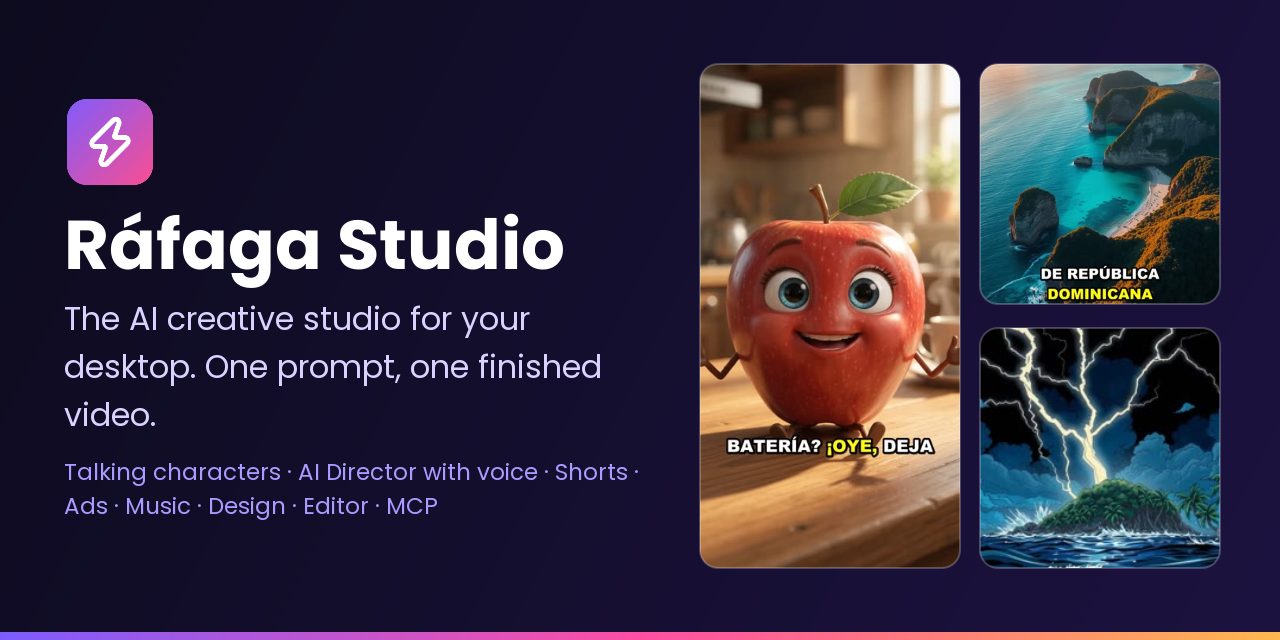
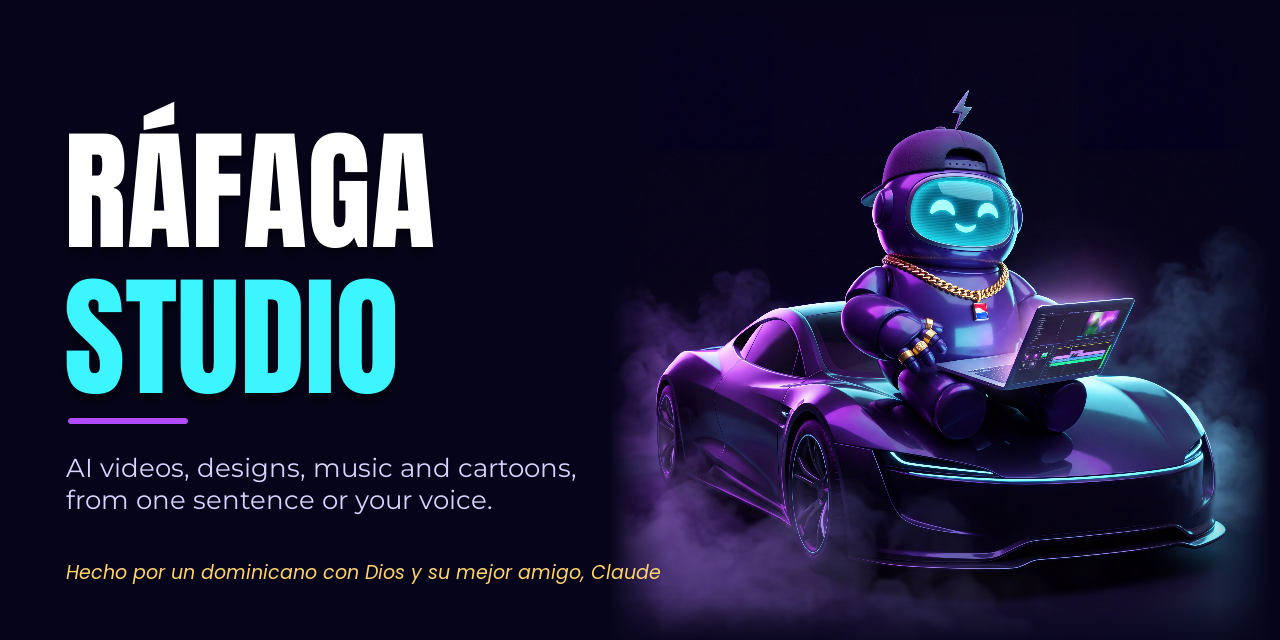
Rafa, la mascota hecha con el diseñador del estudio, y los dibujos con humo se funden con el fondo
- Diseño IA: si el borde de una ilustración no es liso (humo o luces del arte oscuro con neón), se funde poco a poco
  con el fondo del lienzo y no se ve el cuadrado. Con prueba.
- Rafa, la mascota (4K, Gemini Nano Banana 2.1), y una portada nueva para GitHub hechas con el diseñador.
- README: «Meet Rafa» / «Conoce a Rafa».

diff --git a/motor/diseno_ia.py b/motor/diseno_ia.py
@@ -7,7 +7,7 @@ from fractions import Fraction
 from pathlib import Path
 from typing import Callable
 
-from PySide6.QtGui import QColor, QFont, QImage, QTextDocument, QTextOption
+from PySide6.QtGui import QColor, QFont, QImage, QLinearGradient, QPainter, QTextDocument, QTextOption
 
 from . import diseno, ia, marca, memoria, recursos
 from .idioma import actual, IDIOMAS, t
@@ -307,6 +307,32 @@ def _prompt(prompt: str, estilo: str, ilustra: bool = False, fondo: str = "") ->
     return ", ".join(p for p in partes if p) + _SIN_TEXTO
 
 
+def _borde_liso(imagen: QImage, tolerancia: int = 24) -> bool:
+    """Si todo el borde es del color de la esquina, como pide el prompt (un dibujo con humo o luces no lo cumple)."""
+    w, h, esquina = imagen.width(), imagen.height(), imagen.pixelColor(2, 2)
+    puntos = [(2 + i * (w - 5) // 15, y) for i in range(16) for y in (2, h - 3)]
+    puntos += [(x, 2 + i * (h - 5) // 15) for i in range(16) for x in (2, w - 3)]
+    return all(max(abs(c.red() - esquina.red()), abs(c.green() - esquina.green()),
+                   abs(c.blue() - esquina.blue())) <= tolerancia for c in (imagen.pixelColor(*p) for p in puntos))
+
+
+def _fundir_bordes(imagen: QImage, fraccion: float = 0.08) -> QImage:
+    """El borde se vuelve transparente poco a poco, para que no se vea el cuadrado sobre el fondo liso."""
+    imagen = imagen.convertToFormat(QImage.Format_ARGB32_Premultiplied)
+    w, h = imagen.width(), imagen.height()
+    m = max(1, round(min(w, h) * fraccion))
+    p = QPainter(imagen)
+    p.setCompositionMode(QPainter.CompositionMode_DestinationIn)  # solo multiplica el alfa de la franja que pinta
+    for x0, y0, x1, y1, caja in ((0, 0, m, 0, (0, 0, m, h)), (w, 0, w - m, 0, (w - m, 0, m, h)),
+                                 (0, 0, 0, m, (0, 0, w, m)), (0, h, 0, h - m, (0, h - m, w, m))):
+        degradado = QLinearGradient(x0, y0, x1, y1)
+        degradado.setColorAt(0, QColor(0, 0, 0, 0))
+        degradado.setColorAt(1, QColor(0, 0, 0, 255))
+        p.fillRect(*caja, degradado)
+    p.end()
+    return imagen
+
+
 def _comprobar(tipo: str = "post", estilo: str = "auto") -> None:
     """ValueError claro si el tipo o el estilo no existen (llegan también del Director y del MCP)."""
     if not isinstance(tipo, str) or tipo not in TIPOS:
@@ -574,6 +600,8 @@ def crear(pedido: str, tipo: str = "post", usar_marca: bool = True,
                 dibujo = QImage(str(hecha))
                 if not dibujo.isNull():
                     d["fondo"]["colores"] = [dibujo.pixelColor(2, 2).name()]
+                    if not _borde_liso(dibujo):  # humo o luces hasta el borde: se funde con el fondo
+                        _fundir_bordes(dibujo).save(str(hecha))
         except Exception as error:  # cuota agotada o servicio caído: el diseño sale igual, sin esa foto
             causa = _causa(error)
             if es_fondo:

diff --git a/pruebas/diseno_ia.py b/pruebas/diseno_ia.py
@@ -38,6 +38,11 @@ def imagen(prompt, ancho, alto, destino, calidad="1K"):
         raise RuntimeError("Ninguna opción pudo hacerlo.\nservicio caído")
     foto = QImage(ancho, alto, QImage.Format_RGB32)
     foto.fill(QColor("#00AA00"))
+    if "HUMO" in prompt:  # humo claro que llega al borde de abajo, como en el arte oscuro con neón
+        foto.fill(QColor("#06041A"))
+        for y in range(alto * 3 // 4, alto):
+            for x in range(ancho):
+                foto.setPixelColor(x, y, QColor("#5A4A8C"))
     assert foto.save(str(destino))
     return destino
 
@@ -502,6 +507,18 @@ with tempfile.TemporaryDirectory() as d:
     crear([capa(tipo="imagen", prompt_imagen="skull", x=30, y=30, ancho=40, alto=40)], "ilustracion", False,
           fondo_prompt_imagen="dark brick wall")
     assert len(fotos) == 2 and "isolated" not in fotos[1][0] and fotos[1][0].startswith("skull")
+    # Con el borde liso, el dibujo queda igual; con humo hasta el borde, se funde con el fondo y no se ve el cuadrado
+    r = crear([capa(tipo="imagen", prompt_imagen="skull", x=30, y=30, ancho=40, alto=40)], "ilustracion", False)
+    liso = QImage(str(diseno.ruta_imagen(Path(r["carpeta"]), r["diseno"]["capas"][0]["archivo"])))
+    assert not liso.hasAlphaChannel() and r["diseno"]["fondo"]["colores"] == ["#00AA00"]
+    r = crear([capa(tipo="imagen", prompt_imagen="HUMO robot", x=5, y=5, ancho=90, alto=90)], "ilustracion", False,
+              estilo="neon_oscuro")
+    humo = QImage(str(diseno.ruta_imagen(Path(r["carpeta"]), r["diseno"]["capas"][0]["archivo"])))
+    lado = humo.width()
+    assert r["diseno"]["fondo"]["colores"] == ["#06041A"]
+    assert humo.pixelColor(lado // 2, lado - 1).alpha() < 20 and humo.pixelColor(0, lado // 2).alpha() < 20
+    assert humo.pixelColor(lado // 2, lado * 7 // 8).alpha() == 255  # el dibujo, entero
+    assert humo.pixelColor(lado // 2, lado // 2).name() == "#06041a" and humo.pixelColor(lado // 2, lado // 2).alpha() == 255
     antes = set(diseno.CARPETA.iterdir())
     for estilo in ("VECTOR", "", None, "acuarela", ["vector"]):
         assert "Estilo desconocido" in falla(lambda: diseno_ia.crear("pizza", "post", estilo=estilo))

diff --git a/README.es.md b/README.es.md
@@ -149,7 +149,7 @@ cabina.sesion("beat.mp3", "mi_voz.wav", estilo="Dembow / urbano (seco y al frent
 | `pruebas/__main__.py` y `pruebas/seguridad.py` — pruebas sin internet ni claves (`python -m pruebas`) | **MIT** (abierto) |
 | `ejemplos/` — los videos de ejemplo y cómo se hicieron (`python ejemplos/crear.py`) | **MIT** (abierto) |
 | `assets/iconos` (Lucide) y `assets/fuentes` (Google Fonts), ver `assets/LEEME.md` | ISC (iconos) y OFL (fuentes) |
-| `assets/icono.*` y `assets/portada-github.png` — logo y portada | Marca Ráfaga Studio™, todos los derechos reservados |
+| `assets/icono.*`, `assets/portada-github.png` y `assets/mascota.jpg` — logo, portada y mascota | Marca Ráfaga Studio™, todos los derechos reservados |
 | Las demás pruebas (`pruebas/*.py`), `pruebas/real.py`, `instalador/actualizar_lock.py` e `instalador/` | Parte de la app, todos los derechos reservados |
 | `app.py` y `ui/` — la app de escritorio | Código visible, todos los derechos reservados (Ráfaga Studio Pro): no es open source |
 
@@ -162,6 +162,16 @@ Wan 2.2, FLUX, edge-tts, Lucide, Google Fonts.
 
 **Usa contenido propio o con permiso.** Las redes no pagan por contenido ajeno reutilizado. Marca como «hecho con IA»
 el contenido realista generado o alterado con IA: YouTube, TikTok y Meta lo exigen.
+
+## Conoce a Rafa
+
+<img src="assets/mascota.jpg" width="360" align="right" alt="Rafa, la mascota de Ráfaga Studio">
+
+Rafa es la mascota del estudio y se hizo **con el diseñador de Ráfaga Studio**: Claude escribió el diseño como Director y el estudio lo dibujó en 4K.
+
+Hecho por un dominicano con Dios y su mejor amigo, Claude. Si te ayuda a crear, una ⭐ lo ayuda a llegar a más creadores.
+
+<br clear="right">
 
 ## Legal y marca
 

diff --git a/README.md b/README.md
@@ -164,6 +164,16 @@ issue? See [SECURITY.md](SECURITY.md).
 - [ ] macOS and Linux builds
 - [ ] Plugin system for new providers and effects
 
+## 💜 Meet Rafa
+
+<img src="assets/mascota.jpg" width="360" align="right" alt="Rafa, the Ráfaga Studio mascot">
+
+Rafa is the studio's mascot, and it was made **with Ráfaga Studio's own designer**: Claude wrote the design as the Director and the studio drew it in 4K.
+
+Ráfaga Studio was built by a Dominican creator with no big budget, just faith in God and a best friend: Claude. If it helps you create, a ⭐ helps it reach more creators.
+
+<br clear="right">
+
 ## 🤝 Contributing
 
 Ideas, bug reports and pull requests are welcome. Start with [CONTRIBUTING.md](CONTRIBUTING.md). Great first
@@ -182,7 +192,7 @@ Open core:
 | Desktop app: `app.py` and `ui/` (Ráfaga Studio Pro) | Source-available, all rights reserved |
 | Other tests (`pruebas/*.py`), `pruebas/real.py`, `instalador/actualizar_lock.py`, `instalador/` | Part of the app, all rights reserved |
 | Icons (`assets/iconos`, Lucide) and fonts (`assets/fuentes`, Google Fonts) | ISC and OFL |
-| Logo and cover (`assets/icono.*`, `assets/portada-github.png`) | Ráfaga Studio™ trademark, all rights reserved |
+| Logo, cover and mascot (`assets/icono.*`, `assets/portada-github.png`, `assets/mascota.jpg`) | Ráfaga Studio™ trademark, all rights reserved |
 
 See [LICENSE](LICENSE), [Terms](TERMINOS.md) and [Third-party notices](AVISOS_DE_TERCEROS.md).
 **Ráfaga Studio™**, its name, logo and visual identity are trademarks of **Santo Montilla**. © 2026 Santo Montilla.

diff --git a/assets/LEEME.md b/assets/LEEME.md
@@ -1,7 +1,7 @@
 # Recursos de diseño incluidos
 
 Los iconos (`iconos/`) y las fuentes (`fuentes/`) son de terceros con licencia libre; aquí está de dónde salió cada
-cosa y cómo comprobarlo. El logo (`icono.*`) y la portada (`portada-github.png`) son de Ráfaga Studio™, con todos los
+cosa y cómo comprobarlo. El logo (`icono.*`), la portada (`portada-github.png`) y la mascota Rafa (`mascota.jpg`) son de Ráfaga Studio™, con todos los
 derechos reservados.
 Lo bajó y validó un script aparte (fuera del proyecto): integridad del paquete, nombres de archivo seguros y
 contenido revisado antes de copiarlo aquí.
